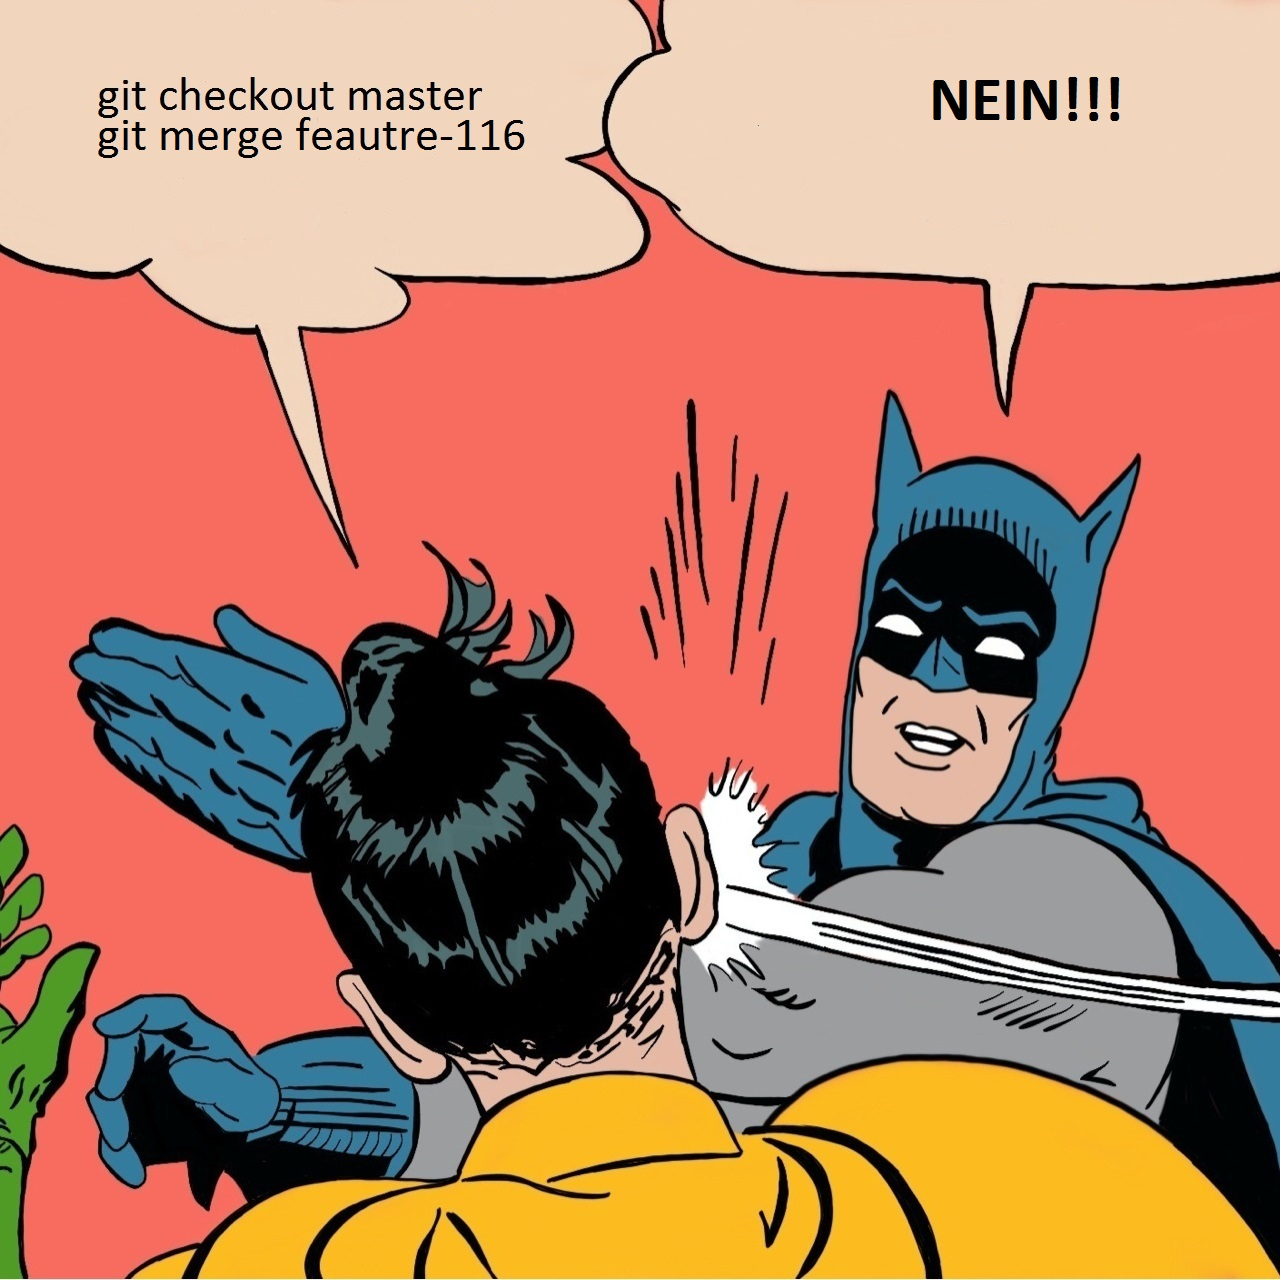
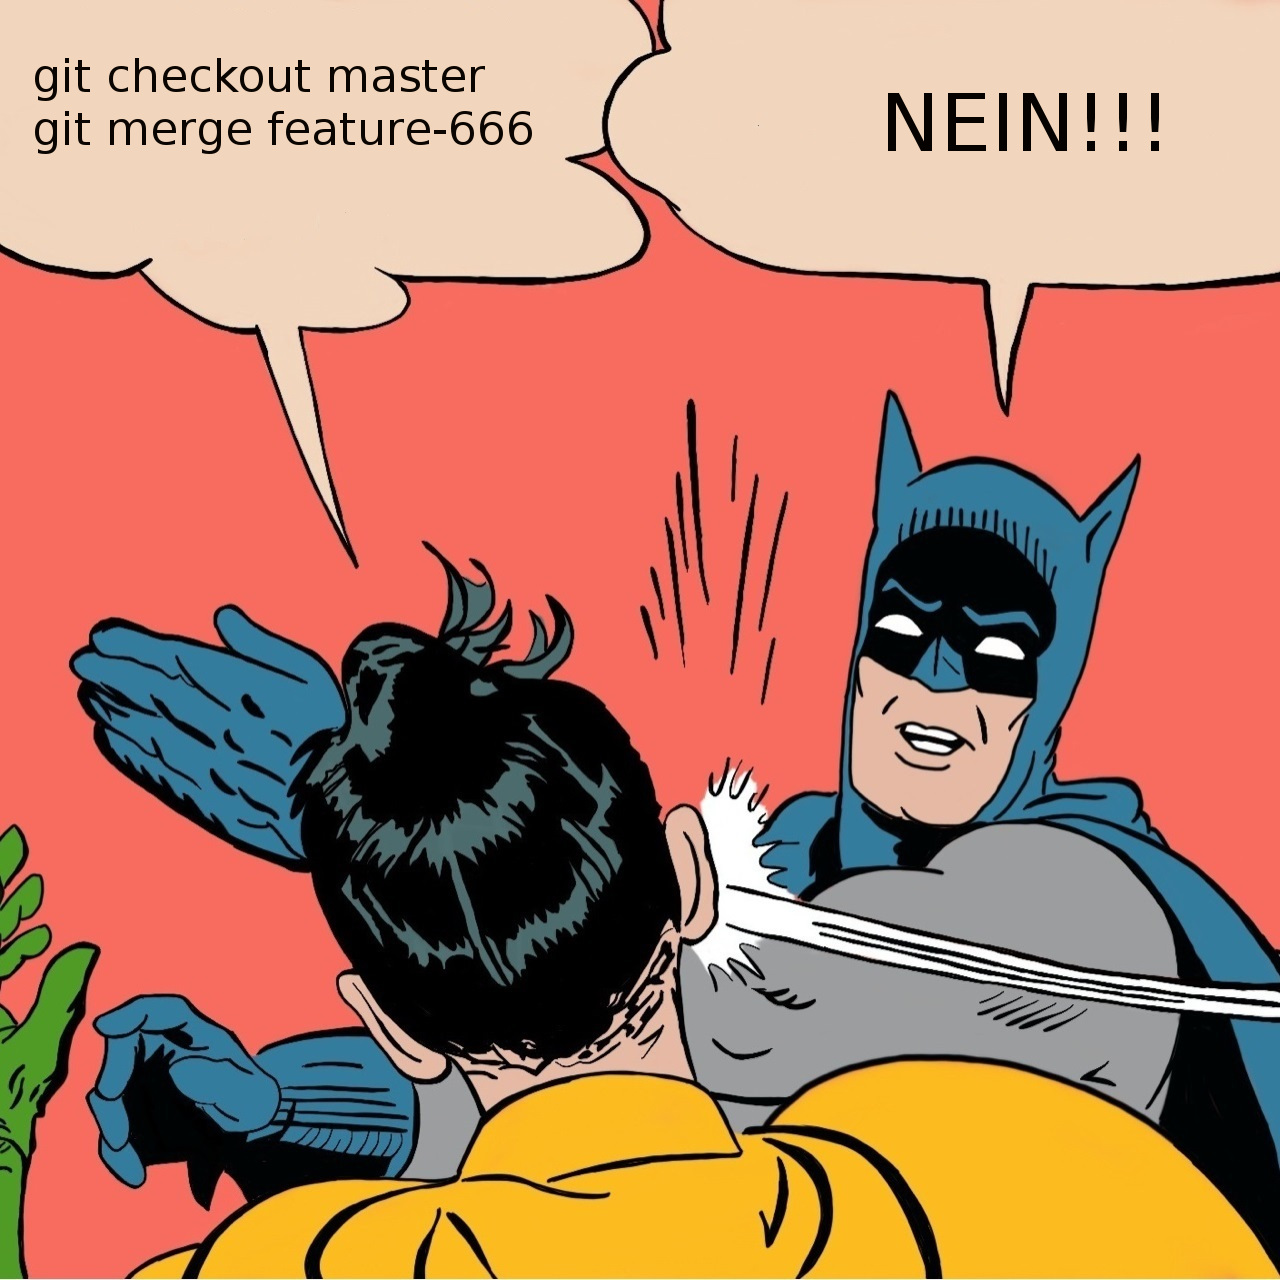
Gitflow text und Bilder

Changed region(s): [[0.0312, 0.0312, 0.4375, 0.125], [0.6875, 0.0625, 0.9062, 0.125]]

diff --git a/2014-git/index.html b/2014-git/index.html
@@ -193,16 +193,59 @@
 				</section>
                 
         <section>
+                <section>
 					<h2>Workflow - Gitflow</h2>
 					<p>
-						Lorem ipsum dolor sit amet, consectetur adipisicing elit, sed do eiusmod
-						tempor incididunt ut labore et dolore magna aliqua. Ut enim ad minim veniam,
-						quis nostrud exercitation ullamco laboris nisi ut aliquip ex ea commodo
-						consequat. Duis aute irure dolor in reprehenderit in voluptate velit esse
-						cillum dolore eu fugiat nulla pariatur. Excepteur sint occaecat cupidatat non
-						proident, sunt in culpa qui officia deserunt mollit anim id est laborum.
+						<img src="images/gitflow.png">
 					</p>
-				</section>
+                </section>
+                <section>
+					<h2>Workflow - Gitflow</h2>
+					<p>
+						Noch Fragen?
+					</p>
+                </section>
+                <section>
+					<h2>Workflow - Gitflow</h2>
+					<ul>
+                        <li>Basiert auf Feature-Branch-Workflow</li>
+                        <li>etwas restriktiever</li>
+                        <li>Branches bekommen feste Rollen</li>
+                    </ul>
+                </section>
+                <section>
+					<h2>Workflow - Gitflow</h2>					
+                    <p>Langelebige Brachens <i>master</i> &amp; <i>develop</i></p>
+                    <img src="images/gitflow_base_branches.png">                        
+                </section>
+            
+                <section>
+					<h2>Workflow - Gitflow</h2>					
+                    <h3>Es wird nicht in Master gemerget</h3>
+                    <img src="images/batman.jpg">                        
+                </section>
+            
+                <section>
+					<h2>Workflow - Gitflow</h2>					
+                    <p>Arbeit auf den (temporären) Feature Branches</p>
+                    <img src="images/gitflow_features.png">                        
+                </section>
+                
+                <section>
+					<h2>Workflow - Gitflow</h2>					
+                    <p>Arbeit is fertig</p>
+                    <img src="images/code_freeze.jpg">                        
+                </section>
+            
+                 <section>
+					<h2>Workflow - Gitflow</h2>					
+                    <p>Der (temporäre) Release Branch wird aus Develop erstellt</p>
+                    <img src="images/gitflow_release.png">                        
+                </section>
+            
+              
+                
+        </section>
                 
         <section>
 					<h2>Workflow - Forking</h2>
